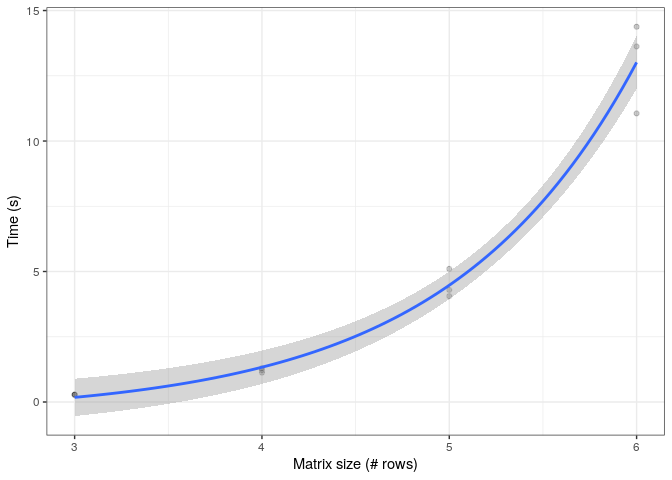
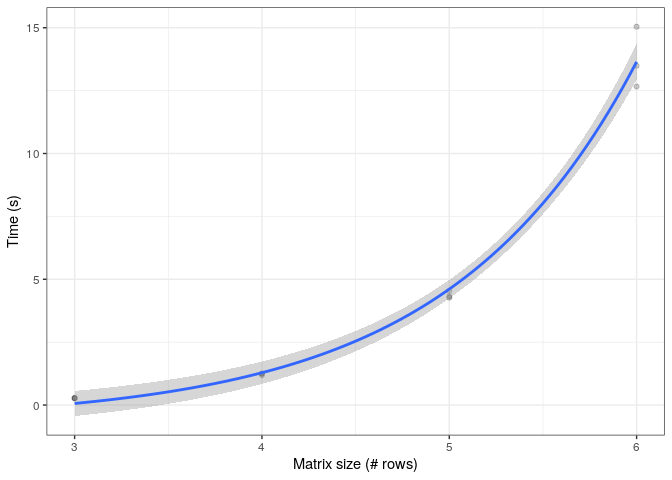
{JSF} Remove building the letter matrix from benchmark

diff --git a/analysis/run_analysis_time_benchmark.md b/analysis/run_analysis_time_benchmark.md
@@ -3,7 +3,7 @@ Benchmark for Word game solver
 
 # Runtime for one matrix
 
-Time take to run for a 6 x 6 matrix: 4.771 s.
+Time take to run for a 6 x 6 matrix: 4.713 s.
 
 # Runtime for different matrix sizes
 
@@ -20,8 +20,8 @@ ggplot2::ggplot(time_to_solve, aes(matrix_size, time)) +
 
 # Appendix
 
-Git hash: 2d30f26a5f587d44732462640fa915dbe33a916d
+Git hash: f19b5a96496476f3befaa1fed523ce2d0a156bab
 
-Git commit date: Sun Jun 7 14:48:25 2020 +0100
+Git commit date: Sun Jun 7 15:02:26 2020 +0100
 
 Repository: wordgamesolver
